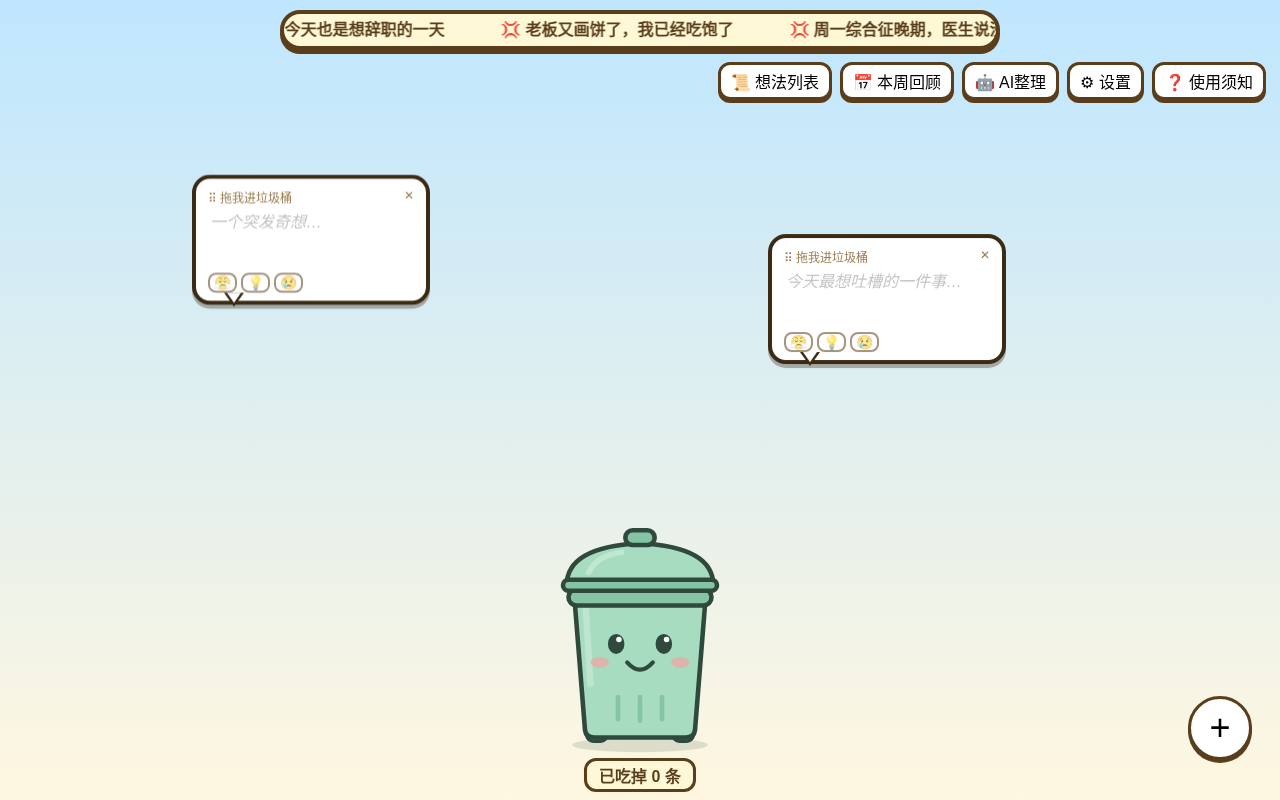
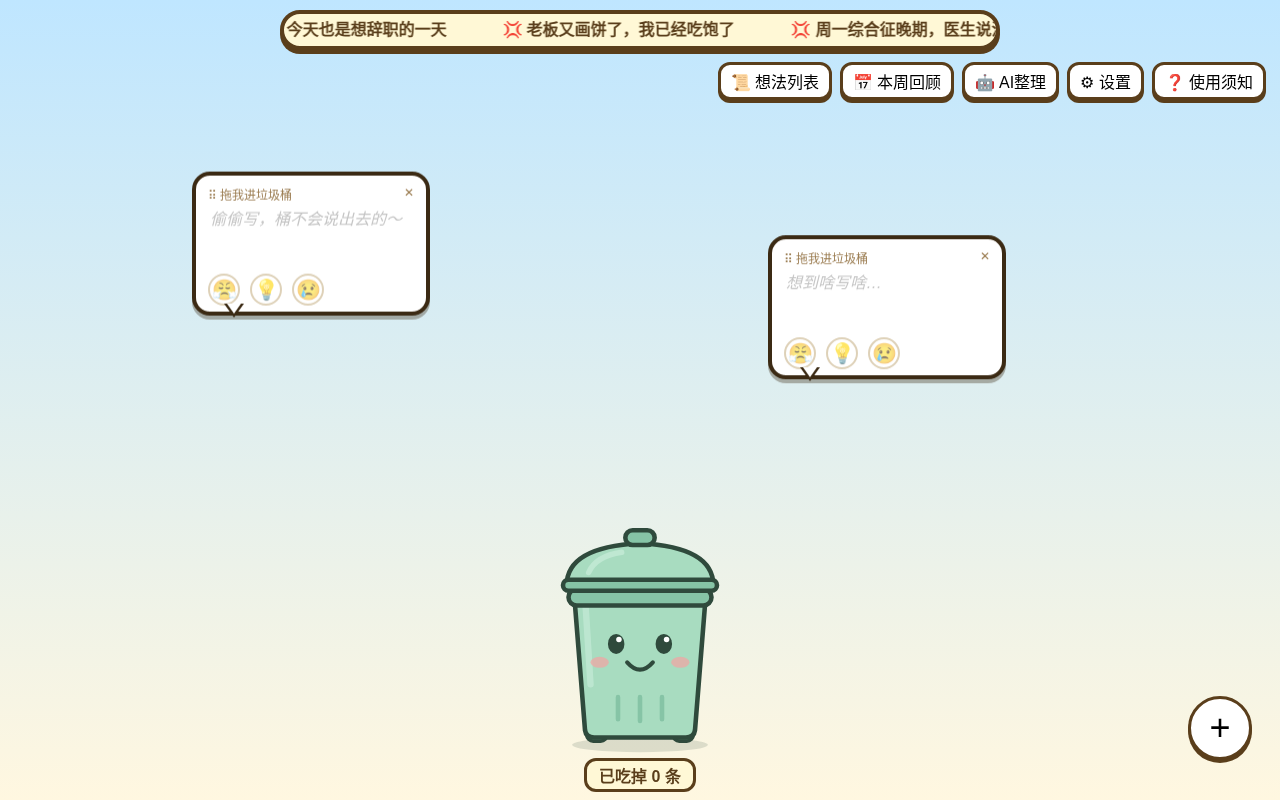
心情标签按钮加大：32px 圆形 + 40×40 点击区，触屏 48×48；更新测试与截图

diff --git a/css/style.css b/css/style.css
@@ -41,9 +41,14 @@ pre.result{white-space:pre-wrap;background:#fff;border:2px solid #ddd;padding:8p
 .bubble textarea:focus::placeholder{opacity:.35}
 .bubble.bounce{transition:left .5s cubic-bezier(.34,1.56,.64,1),top .5s cubic-bezier(.34,1.56,.64,1)}
 
-.tag-picker{display:flex;gap:4px;margin-top:2px}
-.tag-picker button{padding:0 4px;font-size:14px;border-width:2px;box-shadow:none;border-radius:8px;opacity:.55;background:transparent}
-.tag-picker button.on{opacity:1;background:#fff;border-color:#c0392b}
+/* 心情标签：外层按钮是 ≥40×40 的点击区，里面 32px 的圆形是看得见的部分 */
+.tag-picker{display:flex;gap:2px;margin:2px -4px -6px}
+.tag-picker button{width:40px;height:40px;padding:4px;border:none;background:transparent;box-shadow:none;border-radius:50%;display:flex;align-items:center;justify-content:center;touch-action:manipulation;-webkit-tap-highlight-color:transparent}
+.tag-picker button:active{transform:none;box-shadow:none}
+.tag-picker .tg{width:32px;height:32px;border-radius:50%;display:flex;align-items:center;justify-content:center;font-size:20px;line-height:1;border:2px solid #c9b48a;background:rgba(255,255,255,.6);opacity:.6;transition:transform .12s,opacity .12s,border-color .12s}
+.tag-picker button:hover .tg,.tag-picker button:focus-visible .tg{opacity:1;transform:scale(1.08)}
+.tag-picker button.on .tg{opacity:1;background:#fff;border-color:#c0392b;box-shadow:0 0 0 2px rgba(192,57,43,.15)}
+@media (pointer:coarse){.tag-picker button{width:48px;height:48px}.tag-picker .tg{width:38px;height:38px;font-size:24px}}
 #tag-filter{font:inherit;padding:4px;border:2px solid #5a3e1b;border-radius:8px}
 
 #trash-wrap{position:fixed}

diff --git a/js/tags.js b/js/tags.js
@@ -29,7 +29,7 @@ const TAP_MS = 1500;
 export function attachTagPicker(bubble) {
   const box = document.createElement('div');
   box.className = 'tag-picker';
-  box.innerHTML = Object.entries(TAGS).map(([k, t]) => `<button type="button" data-tag="${k}" aria-label="${t.name}">${t.emoji}</button>`).join('');
+  box.innerHTML = Object.entries(TAGS).map(([k, t]) => `<button type="button" data-tag="${k}" aria-label="${t.name}"><span class="tg" aria-hidden="true">${t.emoji}</span></button>`).join('');
   box.addEventListener('pointerdown', e => e.stopPropagation());
   // 鼠标悬停显示名称；触屏没有悬停，点一下时显示约 1.5 秒
   box.addEventListener('pointerover', e => { const b = e.target.closest('button'); if (b && e.pointerType === 'mouse') showTip(b, TAGS[b.dataset.tag].name); });

diff --git a/tests/smoke_test.py b/tests/smoke_test.py
@@ -97,6 +97,11 @@ with sync_playwright() as p:
     pg.click('#btn-add'); tb = pg.locator('.bubble').last
     tipv = lambda: pg.evaluate("(() => { const t = document.querySelector('#tag-tip'); return t ? [t.textContent, +getComputedStyle(t).opacity] : null; })()")
     btn = tb.locator('[data-tag=idea]'); assert btn.get_attribute('aria-label') == '灵感' and not btn.get_attribute('title')
+    sz = tb.locator('.tag-picker button').evaluate_all("bs => bs.map(b => { const r = b.getBoundingClientRect(), v = b.querySelector('.tg').getBoundingClientRect(); return [r.width, r.height, v.width, parseFloat(getComputedStyle(b.querySelector('.tg')).fontSize)]; })")
+    assert all(w >= 39.99 and h >= 39.99 and 30 <= v <= 34 and f == 20 for w, h, v, f in sz), sz
+    pr = tb.locator('.tag-picker').bounding_box(); bbx = tb.bounding_box()
+    assert pr['x'] >= bbx['x'] and pr['x'] + pr['width'] <= bbx['x'] + bbx['width'] and pr['y'] + pr['height'] <= bbx['y'] + bbx['height'], (pr, bbx)
+    print('标签按钮尺寸 OK', sz[0])
     btn.hover(force=True); pg.wait_for_timeout(250); assert tipv() == ['灵感', 1], tipv()
     tr = pg.locator('#tag-tip').bounding_box(); br = btn.bounding_box()
     assert tr['y'] + tr['height'] <= br['y'] and pg.evaluate("document.querySelector('#tag-tip').parentElement === document.body")  # 在按钮上方、不在对话框里，不会被裁
@@ -272,6 +277,13 @@ with sync_playwright() as p:
     fp.click('#btn-list'); fp.wait_for_timeout(200); eb = fp.locator('#panel').bounding_box()
     assert eb['height'] < 200 and '还没有想法' in fp.text_content('#items'), eb
     fp.keyboard.press('Escape'); fp.wait_for_timeout(100); print('空状态面板紧凑 OK，高', round(eb['height']))
+    mob = b.new_context(viewport={'width': 390, 'height': 800}, has_touch=True, is_mobile=True); mp = mob.new_page()
+    mp.on('pageerror', lambda e: errors.append(str(e)))
+    mp.goto('http://127.0.0.1:8766/index.html'); mp.wait_for_selector('.bubble')
+    ms = mp.locator('.bubble .tag-picker button').first.evaluate("b => [b.getBoundingClientRect().width, parseFloat(getComputedStyle(b.querySelector('.tg')).fontSize)]")
+    assert ms[0] >= 48 and ms[1] >= 24, ms
+    mp.locator('.bubble [data-tag=rant]').first.tap(force=True); mp.wait_for_timeout(200)
+    assert mp.text_content('#tag-tip') == '已选：吐槽'; mob.close(); print('触屏大按钮 + 点按提示 OK', ms)
     print('默认状态全为空提示语 OK:', [ph for _, ph in vals])
     b.close()
 srv.shutdown()
